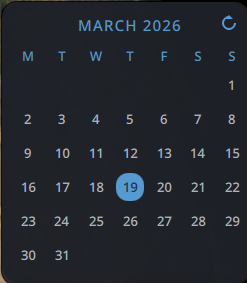
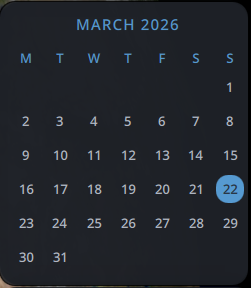
Add files via upload

diff --git a/DesktopWidget.qml b/DesktopWidget.qml
@@ -10,8 +10,9 @@ DraggableDesktopWidget {
     id: root
     property var pluginApi: null
 
-	readonly property bool startOnMonday: pluginApi?.pluginSettings?.startOnMonday ?? true
-	// --- Sizing ---
+    readonly property bool startOnMonday: pluginApi?.pluginSettings?.startOnMonday ?? true
+    
+    // --- Sizing ---
     readonly property real _width: Math.round(250 * widgetScale)
     readonly property real _height: Math.round(285 * widgetScale)
     implicitWidth: _width
@@ -21,29 +22,33 @@ DraggableDesktopWidget {
     property date currentDate: new Date()
     
     function refreshDate() {
-        currentDate = new Date();
+        let now = new Date();
+        if (now.getDate() !== currentDate.getDate() || 
+            now.getMonth() !== currentDate.getMonth() || 
+            now.getFullYear() !== currentDate.getFullYear()) {
+            currentDate = now;
+        }
     }
 
+    // Refresh immediately on wake/visibility change
+    onVisibleChanged: if (visible) refreshDate()
+
     Timer {
-        interval: 60000
+        interval: 60000 
         running: true
         repeat: true
         onTriggered: root.refreshDate()
     }
 
-    // UPDATED: Now reacts to startOnMonday
     readonly property var days: startOnMonday 
         ? ["M", "T", "W", "T", "F", "S", "S"] 
         : ["S", "M", "T", "W", "T", "F", "S"]
     
-    // UPDATED: Now calculates offset based on startOnMonday
     readonly property int firstDayOffset: {
         let firstDay = new Date(currentDate.getFullYear(), currentDate.getMonth(), 1).getDay();
         if (startOnMonday) {
-            // Monday start: (Sun=0 -> 6, Mon=1 -> 0, etc.)
             return (firstDay === 0) ? 6 : firstDay - 1;
         } else {
-            // Sunday start: (Sun=0 -> 0, Mon=1 -> 1, etc.)
             return firstDay;
         }
     }
@@ -66,52 +71,6 @@ DraggableDesktopWidget {
         border.color: Color.mOutlineVariant
         border.width: 1
 
-        // --- Themed Refresh Button ---
-        Rectangle {
-            id: refreshBtn
-            anchors.top: parent.top
-            anchors.right: parent.right
-            anchors.margins: Style.marginS
-            width: 32 * widgetScale
-            height: 32 * widgetScale
-            radius: Style.radiusS
-            color: mouseArea.containsMouse ? Color.mPrimaryContainer : "transparent"
-            Behavior on color { ColorAnimation { duration: 150 } }
-            
-            Canvas {
-                id: refreshIcon
-                anchors.fill: parent
-                anchors.margins: 8 * widgetScale
-                onPaint: {
-                    var ctx = getContext("2d");
-                    ctx.reset();
-                    ctx.strokeStyle = mouseArea.containsMouse ? Color.mOnPrimaryContainer : Color.mPrimary;
-                    ctx.lineWidth = 2;
-                    ctx.beginPath();
-                    ctx.arc(width/2, height/2, width/2 - 2, 0, Math.PI * 1.5);
-                    ctx.stroke();
-                    ctx.fillStyle = ctx.strokeStyle;
-                    ctx.beginPath();
-                    ctx.moveTo(width/2, 0);
-                    ctx.lineTo(width/2 + 4, 4);
-                    ctx.lineTo(width/2 - 4, 4);
-                    ctx.closePath();
-                    ctx.fill();
-                }
-                Connections {
-                    target: mouseArea
-                    function onContainsMouseChanged() { refreshIcon.requestPaint(); }
-                }
-            }
-
-            MouseArea {
-                id: mouseArea
-                anchors.fill: parent
-                cursorShape: Qt.PointingHandCursor
-                onClicked: root.refreshDate()
-            }
-        }
-
         ColumnLayout {
             anchors.fill: parent
             anchors.margins: Style.marginL
@@ -124,6 +83,7 @@ DraggableDesktopWidget {
                 font.letterSpacing: 1.2
                 font.pointSize: Style.fontSizeM
                 Layout.alignment: Qt.AlignHCenter
+                Layout.bottomMargin: Style.marginS
             }
 
             GridLayout {
